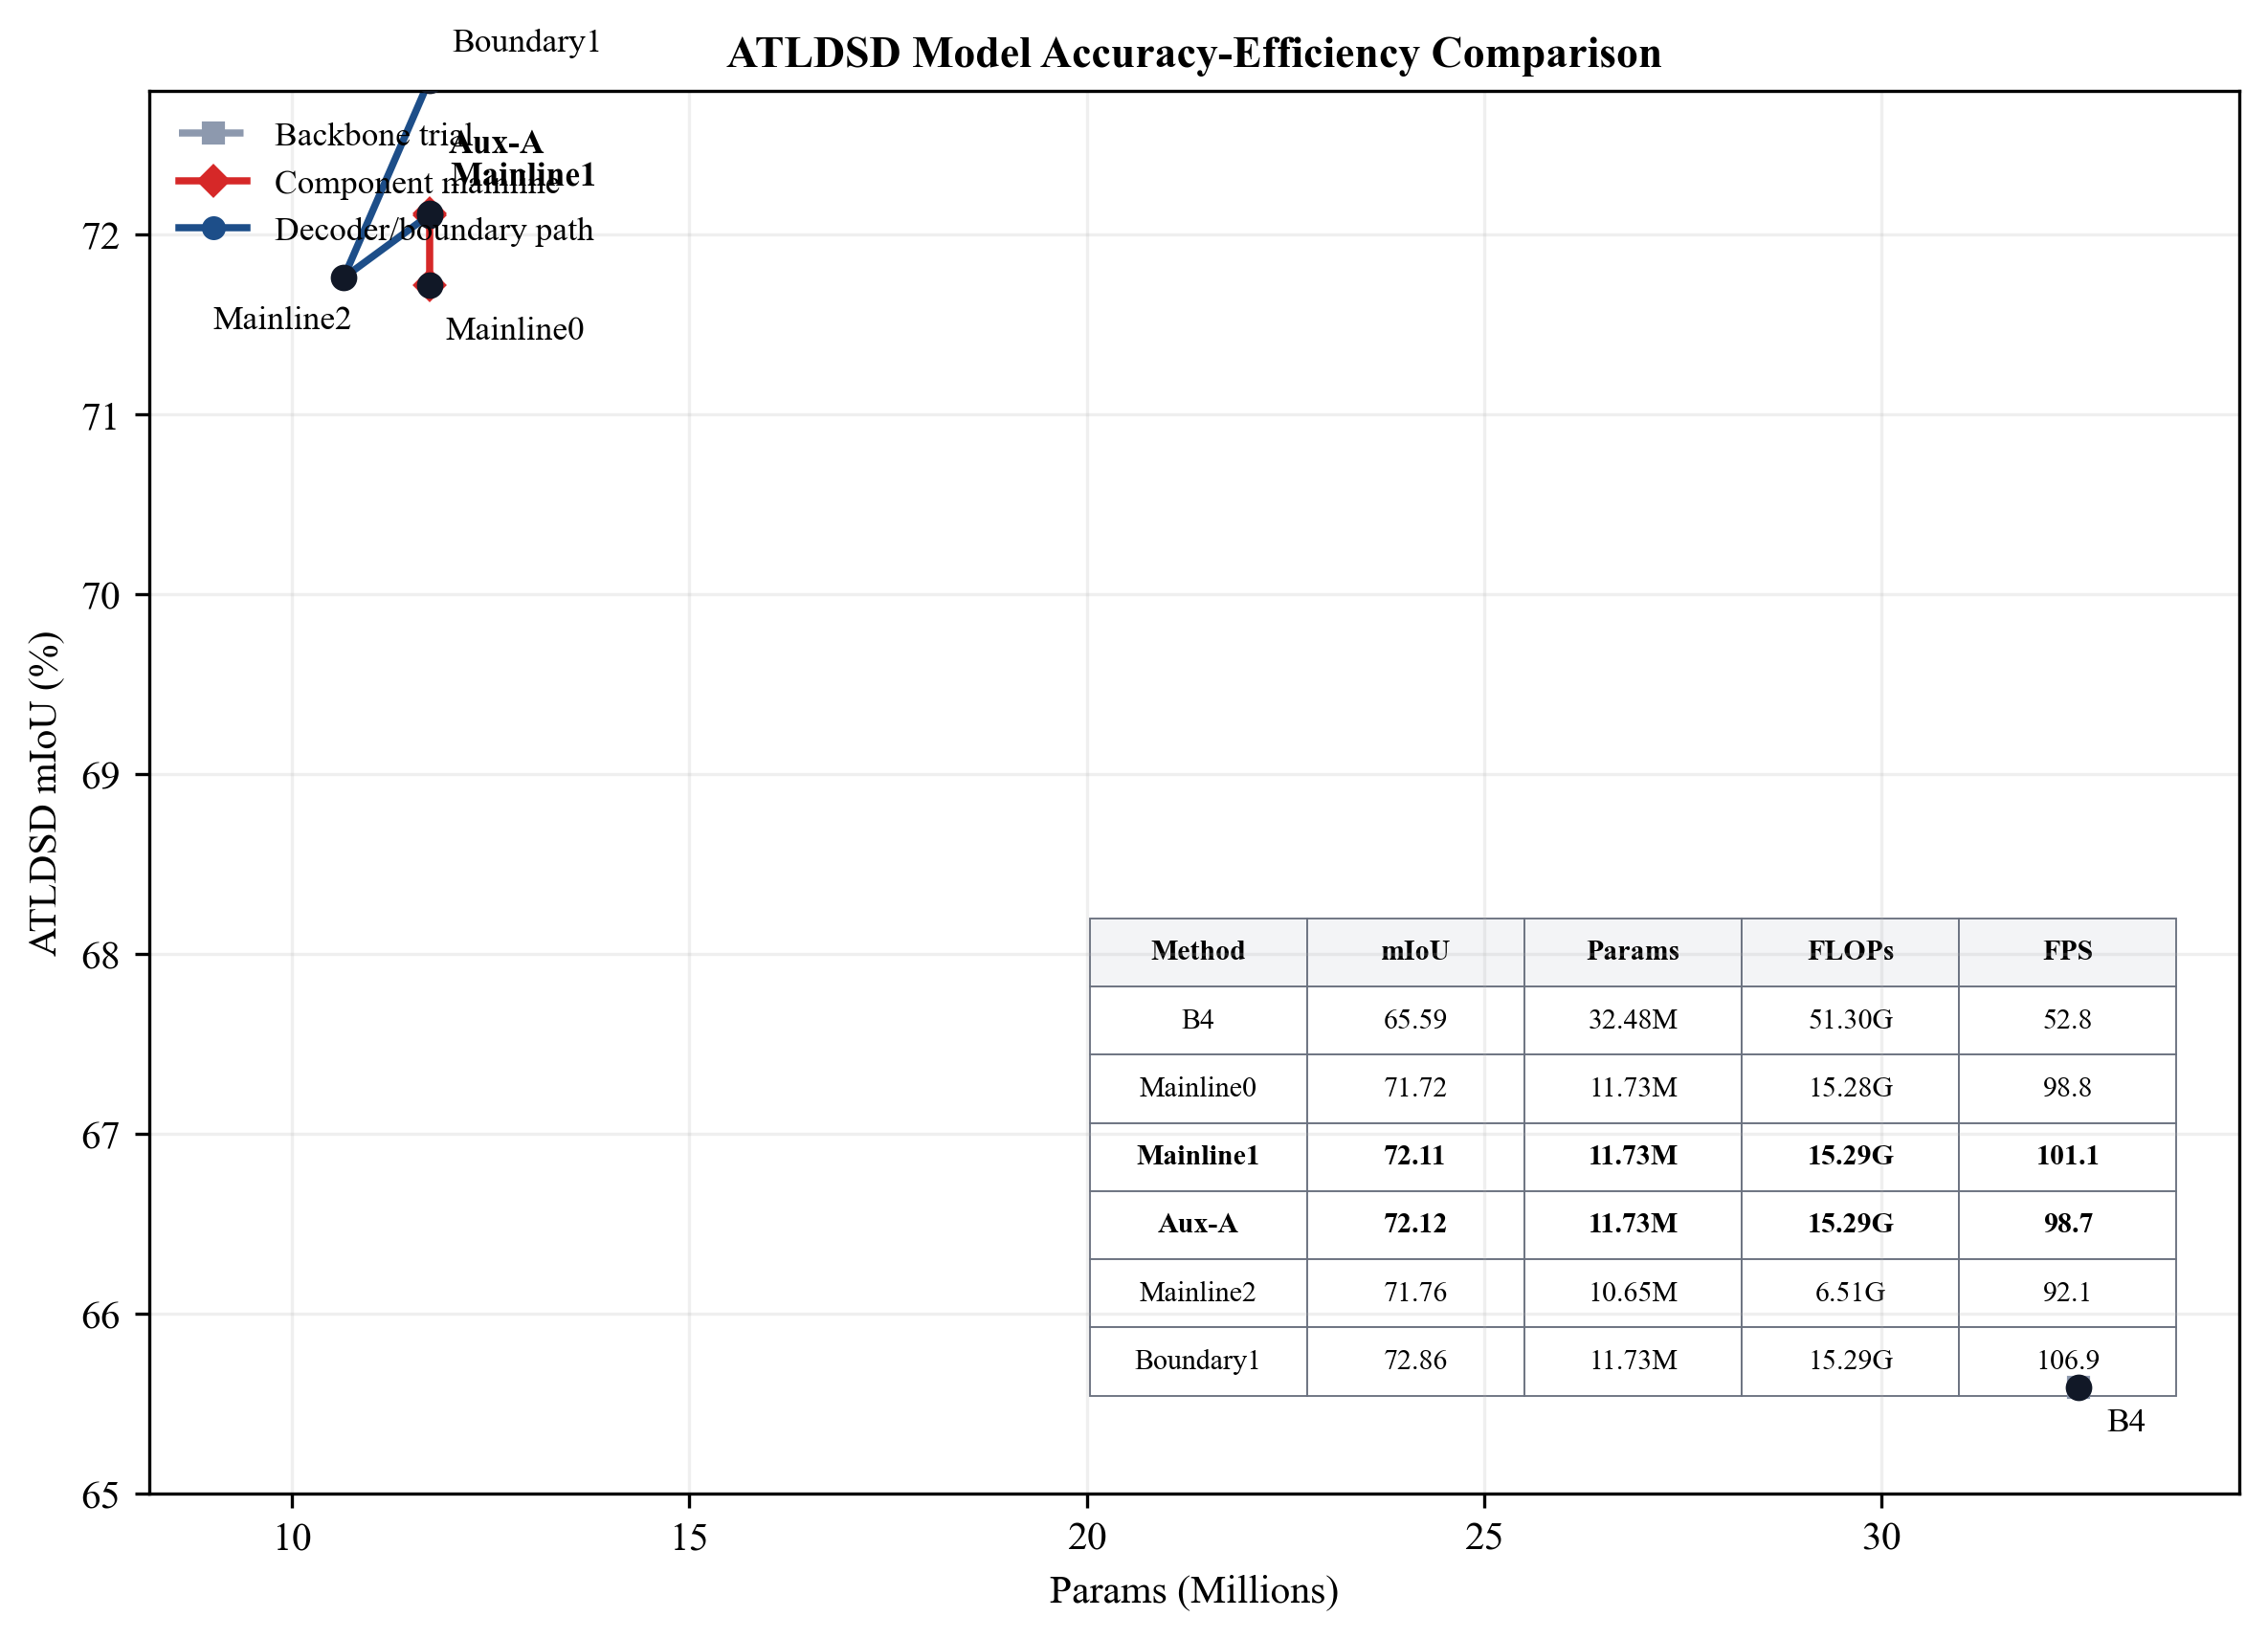
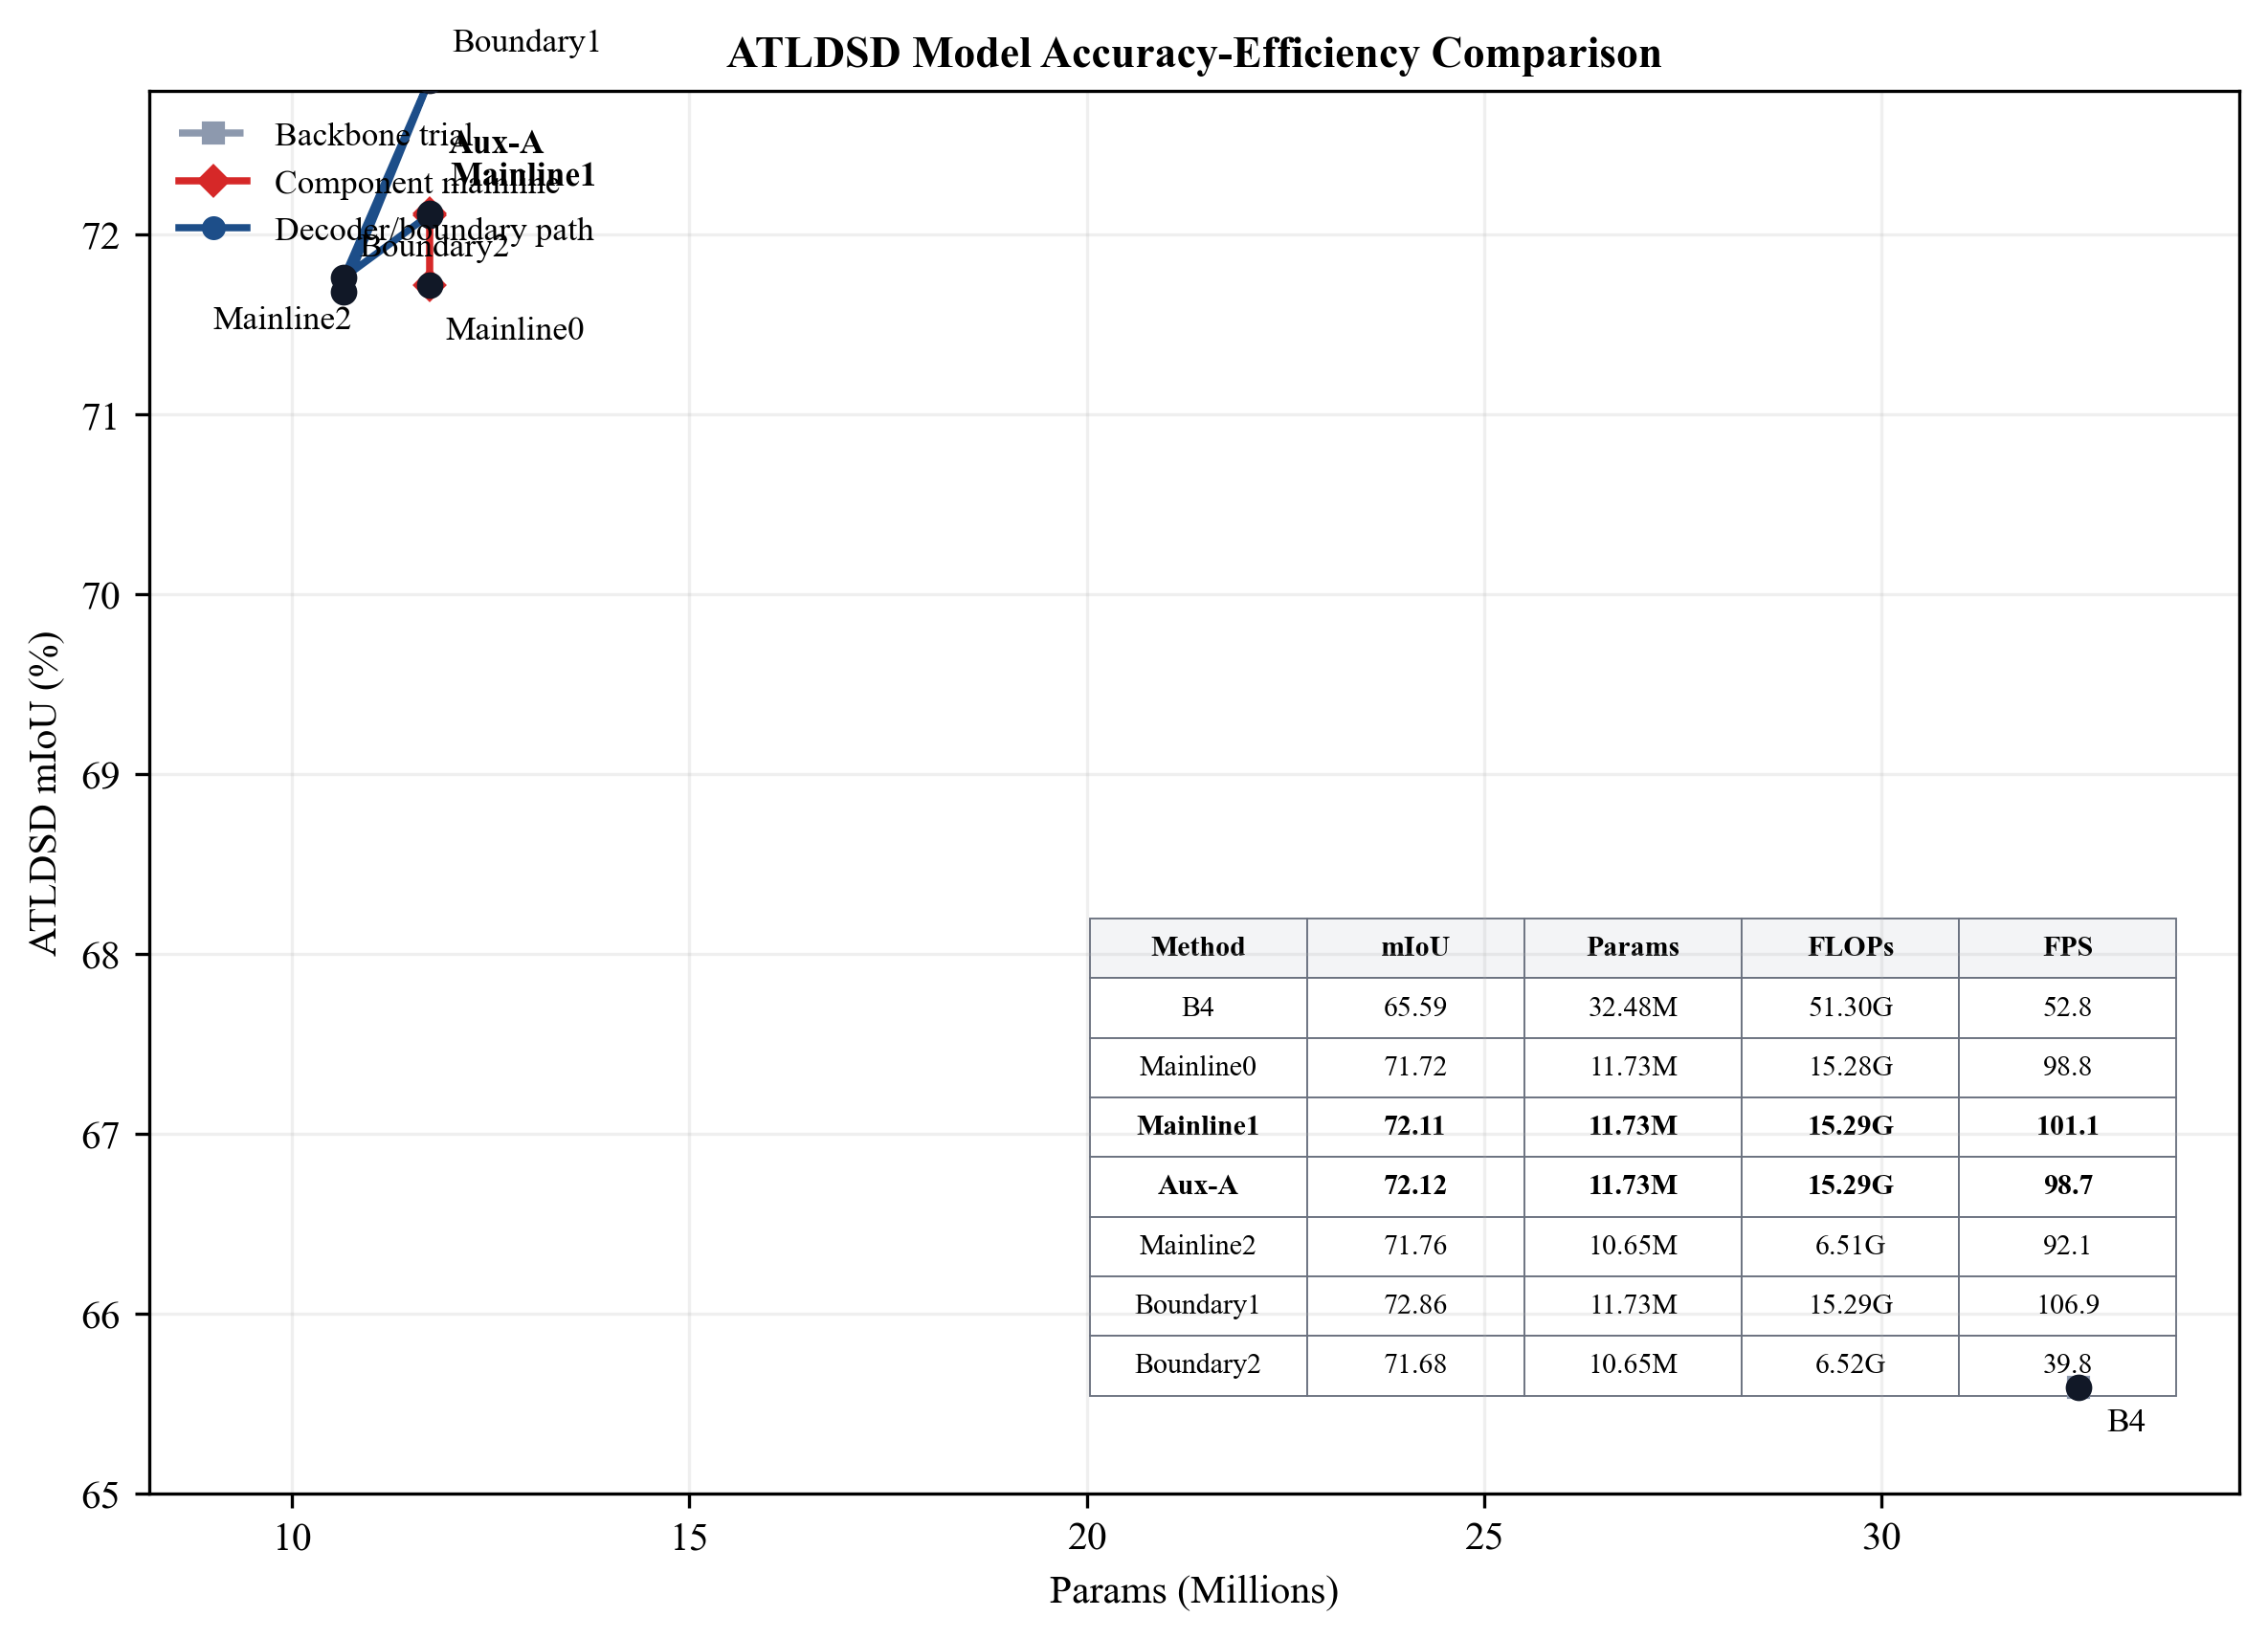
Record PConv LBSB boundary results

diff --git a/figures/gen_fig_training_results_summary.py b/figures/gen_fig_training_results_summary.py
@@ -172,16 +172,16 @@ ROWS = [
         "id": "Boundary2",
         "method": "Mainline1 + PConv + LBSB",
         "change": "decoder locality + boundary sharpening",
-        "status": "running",
-        "miou": None,
-        "fg_miou": None,
-        "acc": None,
-        "severity_mae": None,
-        "grade_acc": None,
-        "params_m": None,
-        "flops_g": None,
-        "fps": None,
-        "decision": "running; test PConv-LBSB synergy",
+        "status": "done",
+        "miou": 71.68,
+        "fg_miou": 66.54,
+        "acc": 97.72,
+        "severity_mae": 0.01281,
+        "grade_acc": 93.50,
+        "params_m": 10.65,
+        "flops_g": 6.52,
+        "fps": 39.81,
+        "decision": "no PConv-LBSB synergy; do not keep PConv",
     },
 ]
 

diff --git a/seg/ATLDSD项目进度.md b/seg/ATLDSD项目进度.md
@@ -16,20 +16,31 @@ Accuracy = 97.97
 Severity MAE = 0.01177
 Grade Acc = 93.90
 
-当前正在跑:
-边界2 = 主线1 + PConv + LBSB。
+最新完成:
+边界2 = 主线1 + PConv + LBSB 已完成 150 epoch。
 
-PID:
-8124
+结果:
+mIoU = 71.68
+FG mIoU = 66.54
+Accuracy = 97.72
+Severity MAE = 0.01281
+Grade Acc = 93.50
+Params = 10.65M
+FLOPs = 6.52G
+FPS = 39.81
 
-启动时间:
-2026-06-05 16:15
+结论:
+PConv 与 LBSB 没有形成互补。
+边界2低于边界1，也低于主线1。
+后续最终模型不保留 PConv。
+当前最强仍然是:
+主线1 + LBSB
+
+完成时间:
[phone redacted]:00
 
 输出目录:
 D:\Code\ATLDSD\outputs\atldsd\deeplabv3plus_mobilenetv3_large_component_aux_pconv_lbsb_150
-
-目的:
-判断 PConv 虽然单独弱于主线1，但是否能和 LBSB 互补。
 
 Windows 启动脚本:
 D:\Code\ATLDSD\scripts\run_atldsd_deeplabv3plus_mobilenetv3_large_component_aux_pconv_lbsb_150.ps1
@@ -224,7 +235,7 @@ D:\Code\ATLDSD\outputs\atldsd\deeplabv3plus_mobilenetv3_large_component_aux_lbsb
 | 附加实验A | 主线1 + Severity Consistency Loss | 72.12 | 67.06 | 97.78 | 0.01147 | 93.90 | mIoU 基本持平，严重度 MAE 更好 |
 | 主线2 | 主线1 + PConv | 71.76 | 66.62 | 97.80 | 0.01373 | 93.09 | 更轻但精度下降，需测试 PConv+LBSB 互补 |
 | 边界1 | 主线1 + LBSB | 72.86 | 67.89 | 97.97 | 0.01177 | 93.90 | 当前最高 mIoU，LBSB 单独有效 |
-| 边界2 | 主线1 + PConv + LBSB | 运行中 | 运行中 | 运行中 | 运行中 | 运行中 | 验证 PConv 与 LBSB 是否互补 |
+| 边界2 | 主线1 + PConv + LBSB | 71.68 | 66.54 | 97.72 | 0.01281 | 93.50 | 未超过边界1，PConv 不保留 |
 | B4 baseline | DeepLabV3+ + EfficientNet-B4 | 65.59 | 59.59 | 96.44 | 未主用 | 未主用 | 更重更差，弃作主干 |
 | SCLP 0.7 | 主线0 + 强 copy-paste | 68.97 | 未主用 | 未主用 | 未主用 | 未主用 | 失败增强 |
 | SCLP 0.3 | 主线0 + 弱 copy-paste | 69.90 | 未主用 | 未主用 | 未主用 | 未主用 | 仍低于主线0 |

diff --git a/outputs/atldsd/summary/training_results_summary.md b/outputs/atldsd/summary/training_results_summary.md
@@ -12,4 +12,4 @@
 | Aux-A | Mainline1 + severity loss | loss ablation | done | 72.12 | 67.06 | 0.01147 | 93.90 | 11.73 | 15.29 | best severity MAE; not main structure |
 | Mainline2 | Mainline1 + PConv | decoder locality | done | 71.76 | 66.62 | 0.01373 | 93.09 | 10.65 | 6.51 | lighter; test PConv+LBSB synergy |
 | Boundary1 | Mainline1 + LBSB | boundary sharpening | done | 72.86 | 67.89 | 0.01177 | 93.90 | 11.73 | 15.29 | best mIoU; promote to current best |
-| Boundary2 | Mainline1 + PConv + LBSB | decoder locality + boundary sharpening | running | - | - | - | - | - | - | running; test PConv-LBSB synergy |
+| Boundary2 | Mainline1 + PConv + LBSB | decoder locality + boundary sharpening | done | 71.68 | 66.54 | 0.01281 | 93.50 | 10.65 | 6.52 | no PConv-LBSB synergy; do not keep PConv |